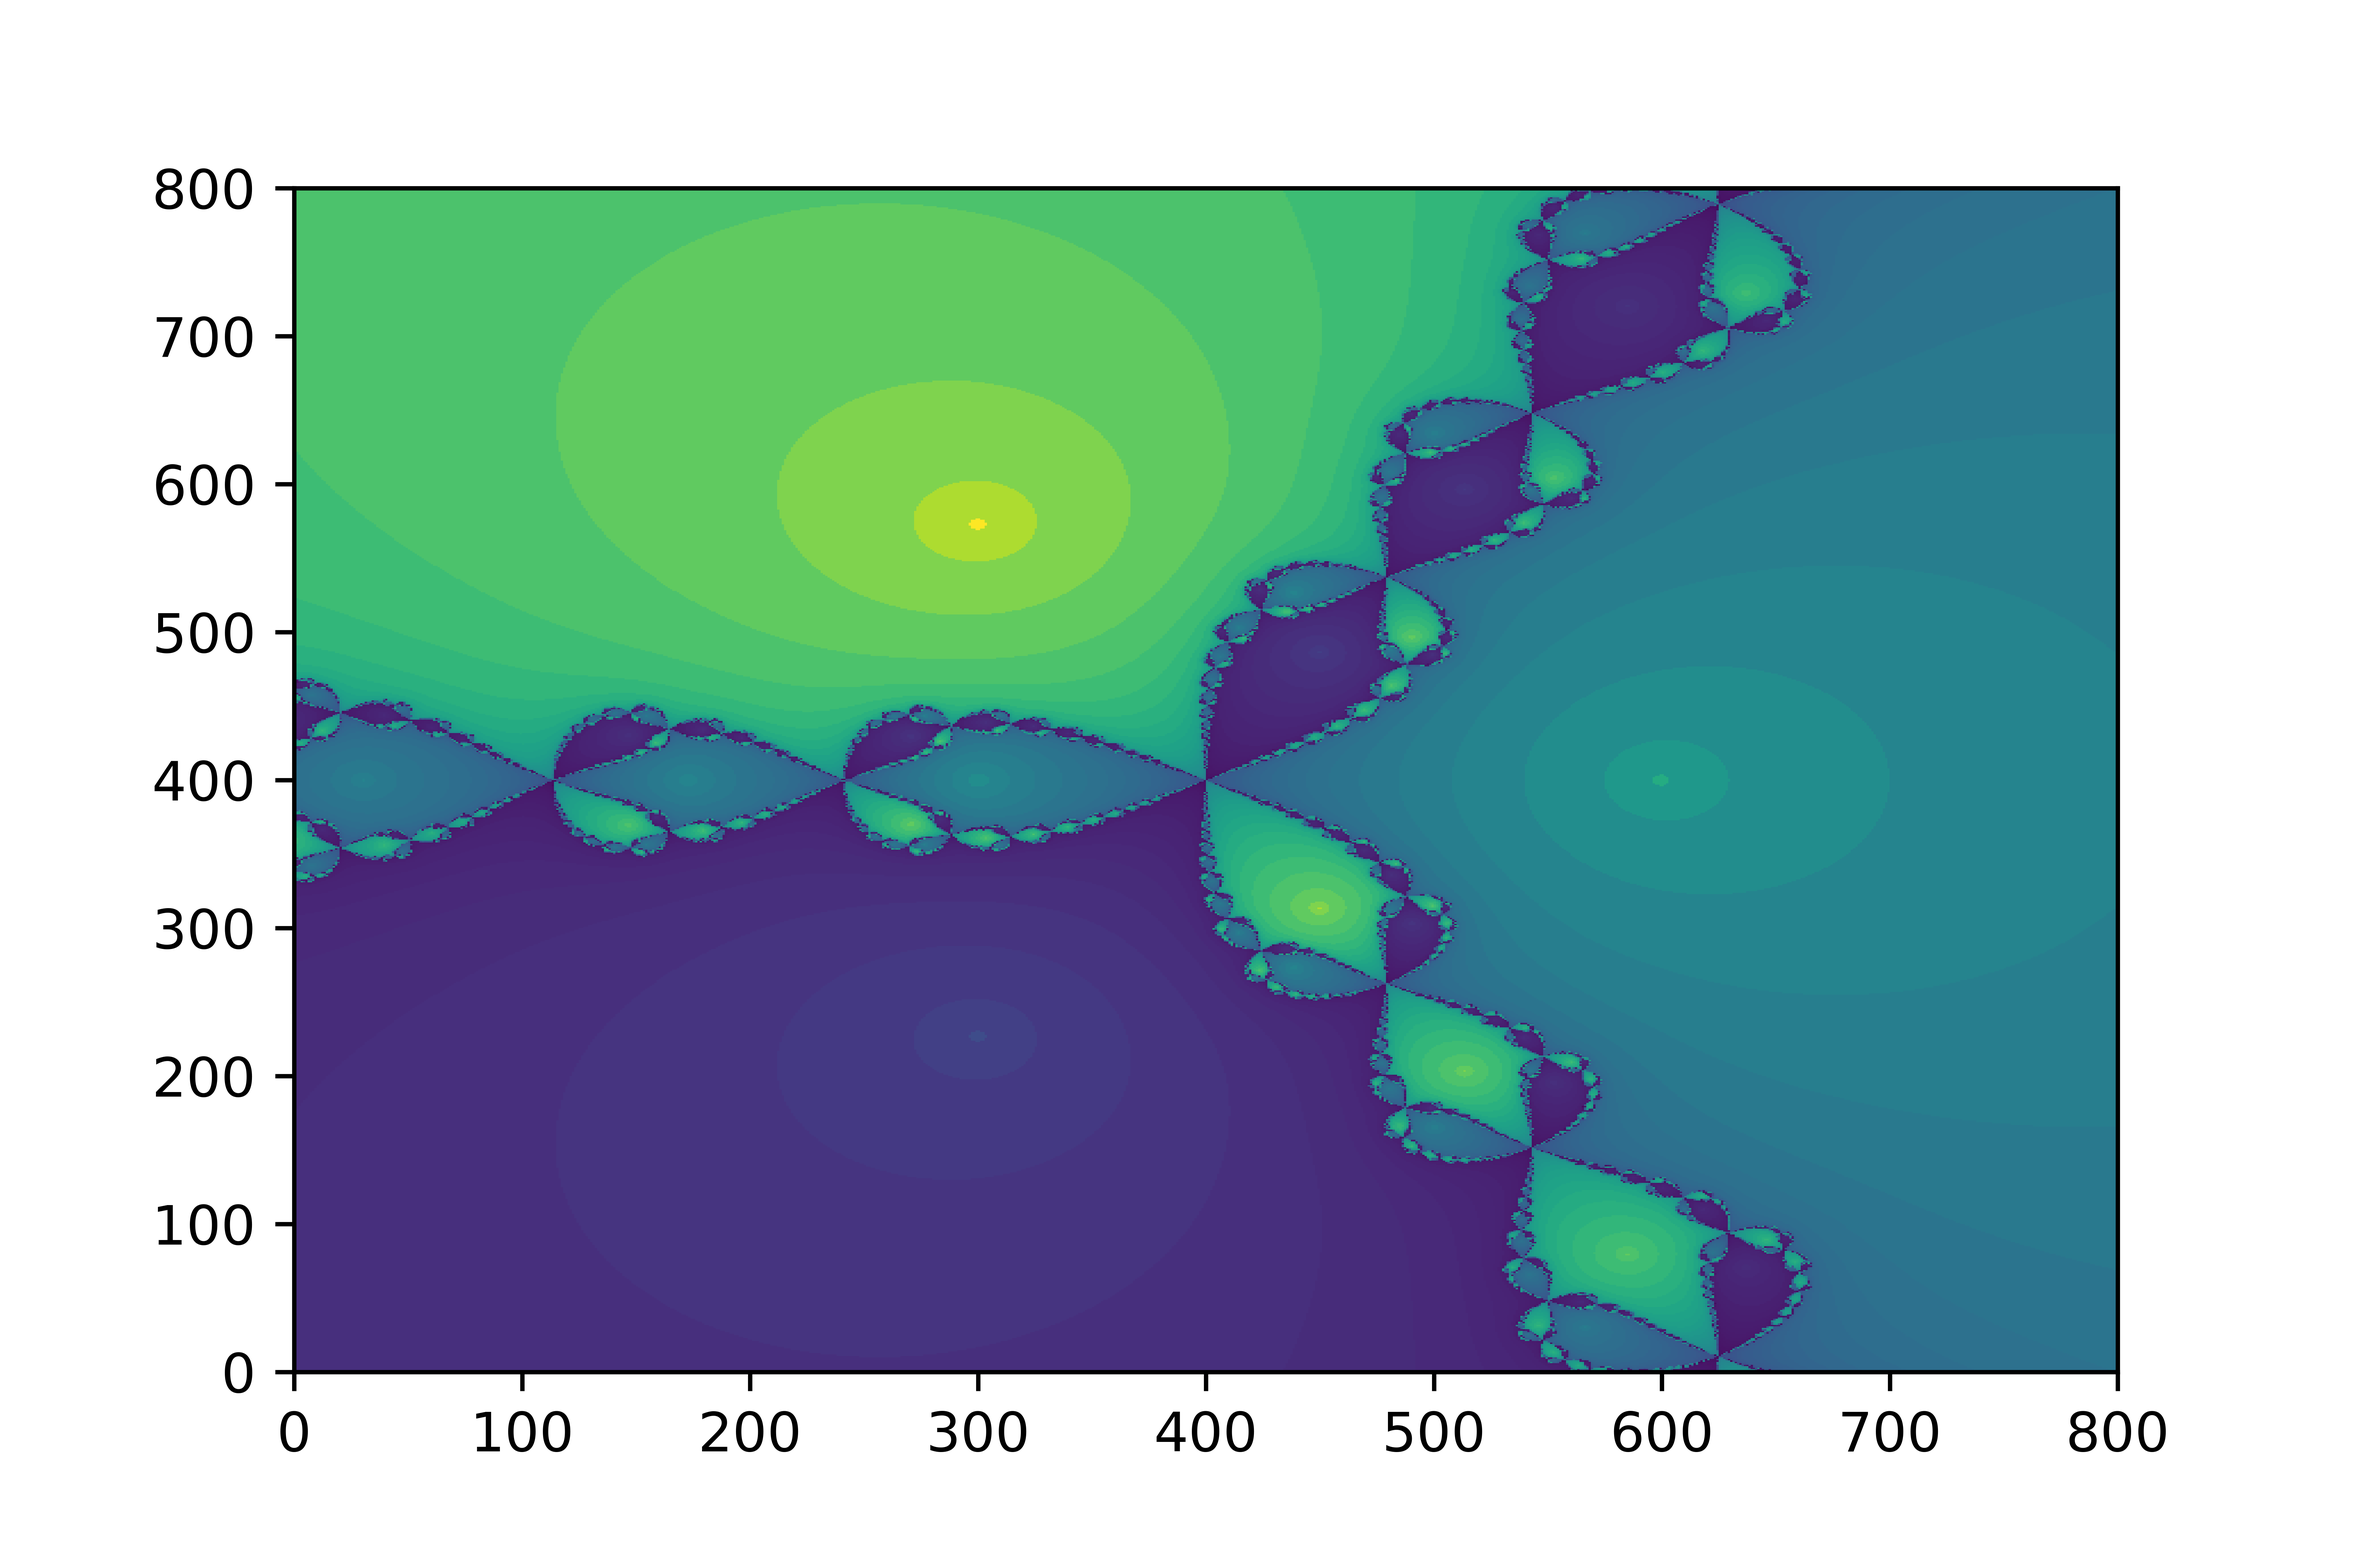
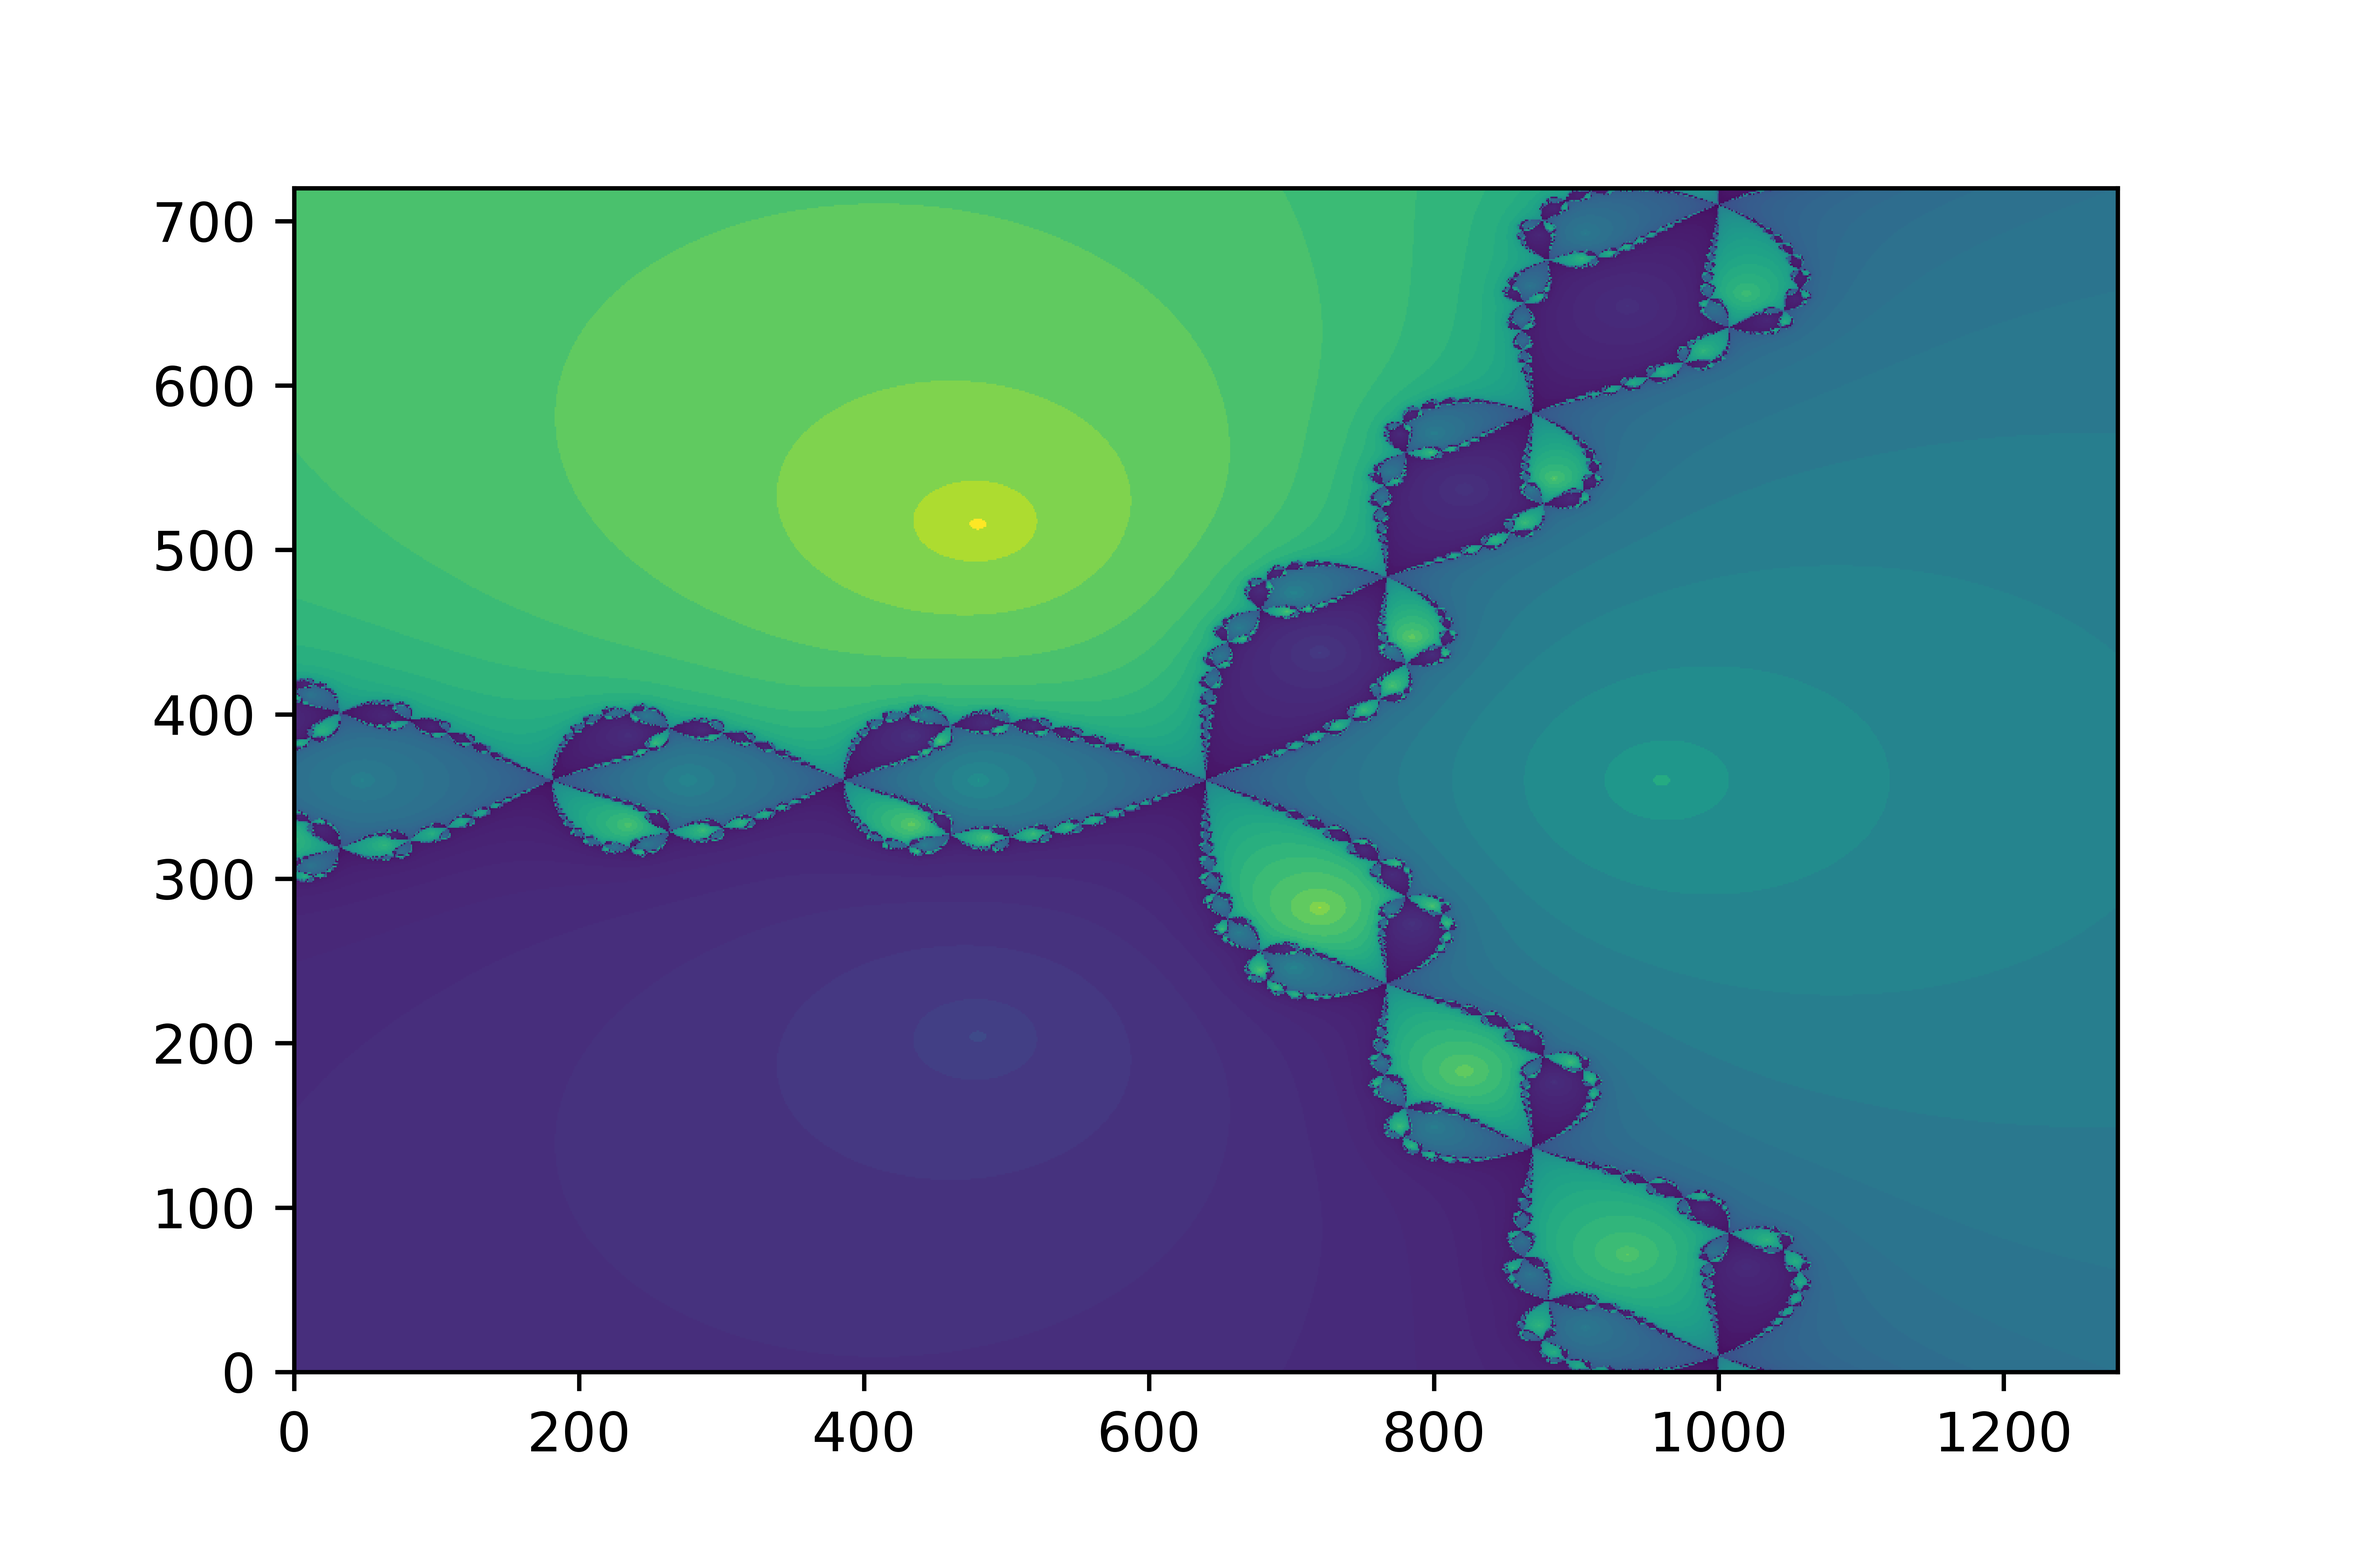
Plot2

diff --git a/Fractal2D.py b/Fractal2D.py
@@ -99,7 +99,7 @@ class Fractal2D:
 		plt.imsave('{}.png'.format(Filename),im, origin = 'lower')
 	
 	#Jonathan	, Alfred
-	def plot2(self, N, a, b, c, d,Filename = 'fractal2'):
+	def plot2(self, N, M, a, b, c, d,Filename = 'fractal2'):
 		"""
 		This is a plot function containing the commands meshgrid and pcolor 
 		which was suggested i task 4. Later we improved this and did not use 
@@ -107,13 +107,13 @@ class Fractal2D:
 		totally new matrix. What we are doing now is changing the elements 
 		in one of the matrices in the meshgrid. 
 		"""
-		xvalues = np.linspace(a, b, N)
+		xvalues = np.linspace(a, b, M)
 		yvalues = np.linspace(c, d, N)
 		G = np.meshgrid(xvalues, yvalues)
 		#A = []
 		for n in range(N):
 			#row = []
-			for i in range(N):
+			for i in range(M):
 				root = self.newton(np.array([G[0][n][i], G[1][n][i]]))
 				if root == None:
 					#row.append(5)
